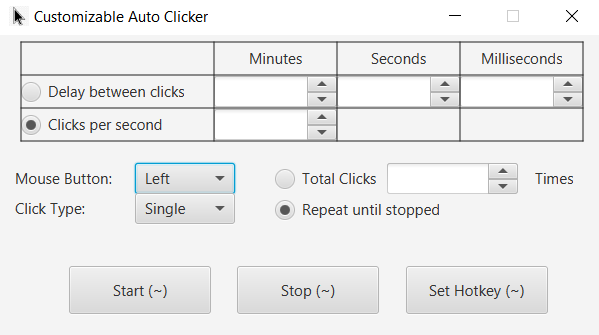
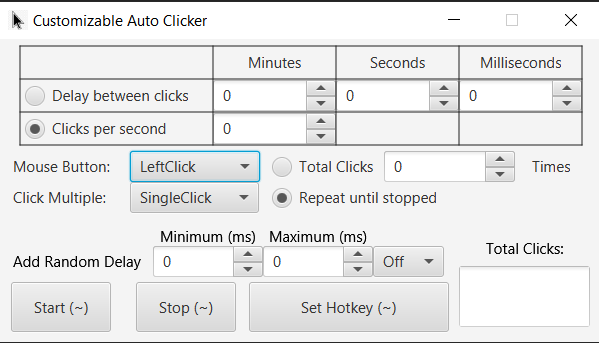
Updated image in README to reflect new GUI.

diff --git a/README.md b/README.md
@@ -54,7 +54,7 @@ Follow these instructions if you want to use this app.
 ### Prerequisites
 **(This onely applies if not using the jar file)**
 
-This application relies on [JNativeHook 2.1.0](https://github.com/kwhat/jnativehook) or newer.
+This application relies on [JNativeHook 2.2.2](https://github.com/kwhat/jnativehook) or newer.
  - The most recent version of JNativeHook can be found [here](https://github.com/kwhat/jnativehook/releases). 
    Download the relevant jar file.
 
@@ -70,7 +70,7 @@ Compiling Locally (through IntelliJ):
  * Add the file to the dependency list, ensure the box "Export" is checked, apply and close.
  * You can now compile `src/GUI/RenderGUI`'s main method which will run the program.
 
-Running the jar:
+Running the jar (To be added):
  * Download the .jar file for the project
  * Run the file.
 
